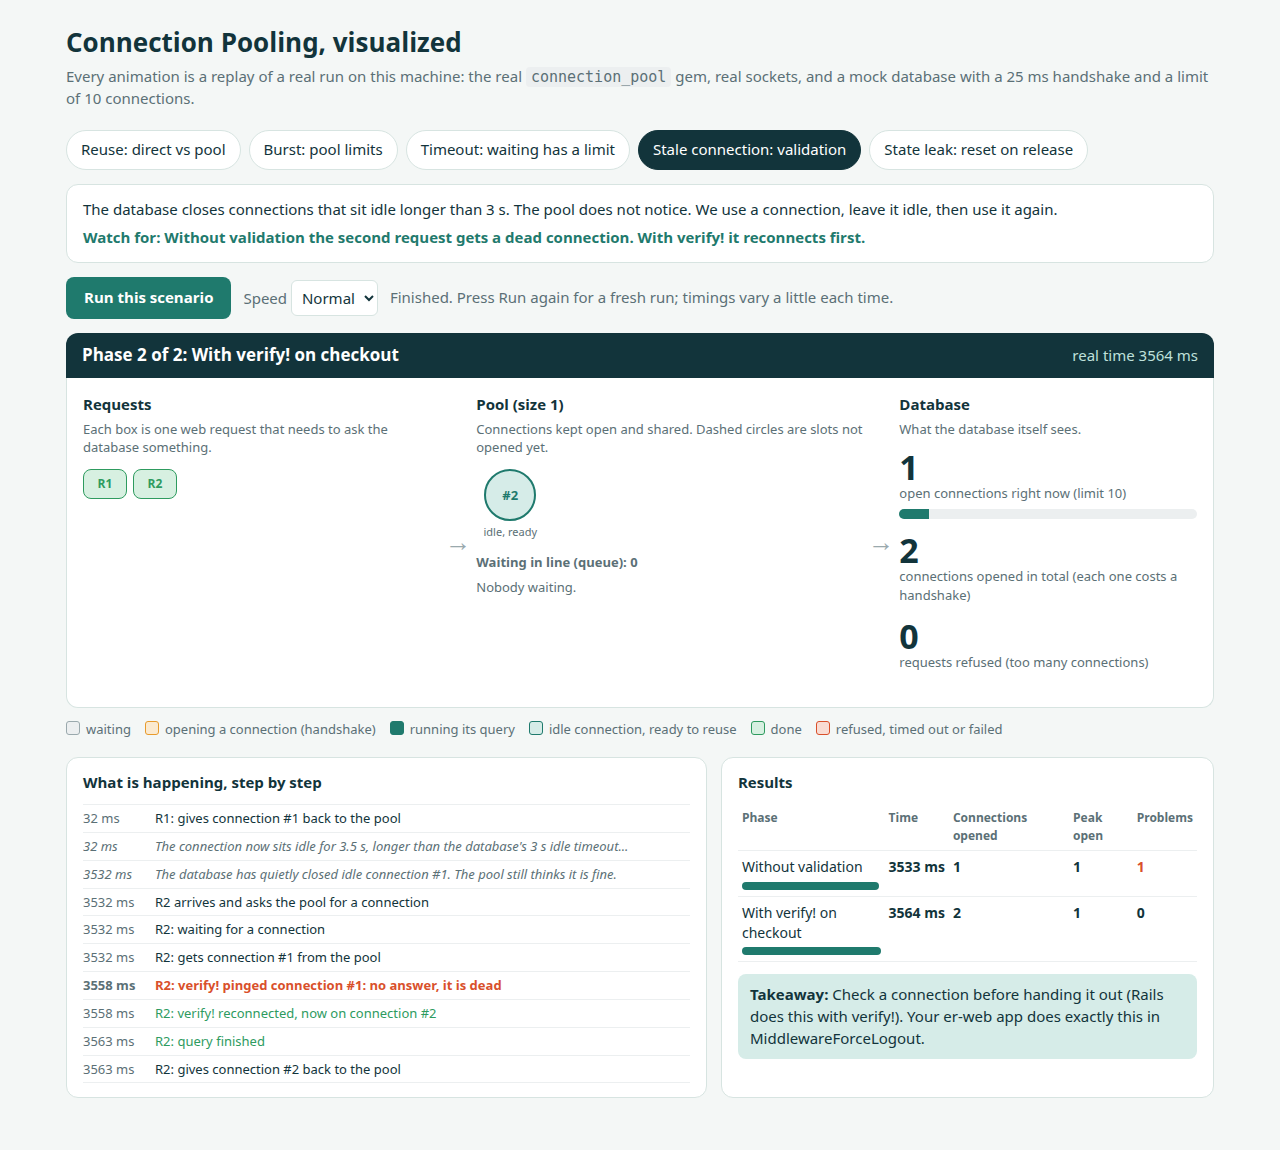
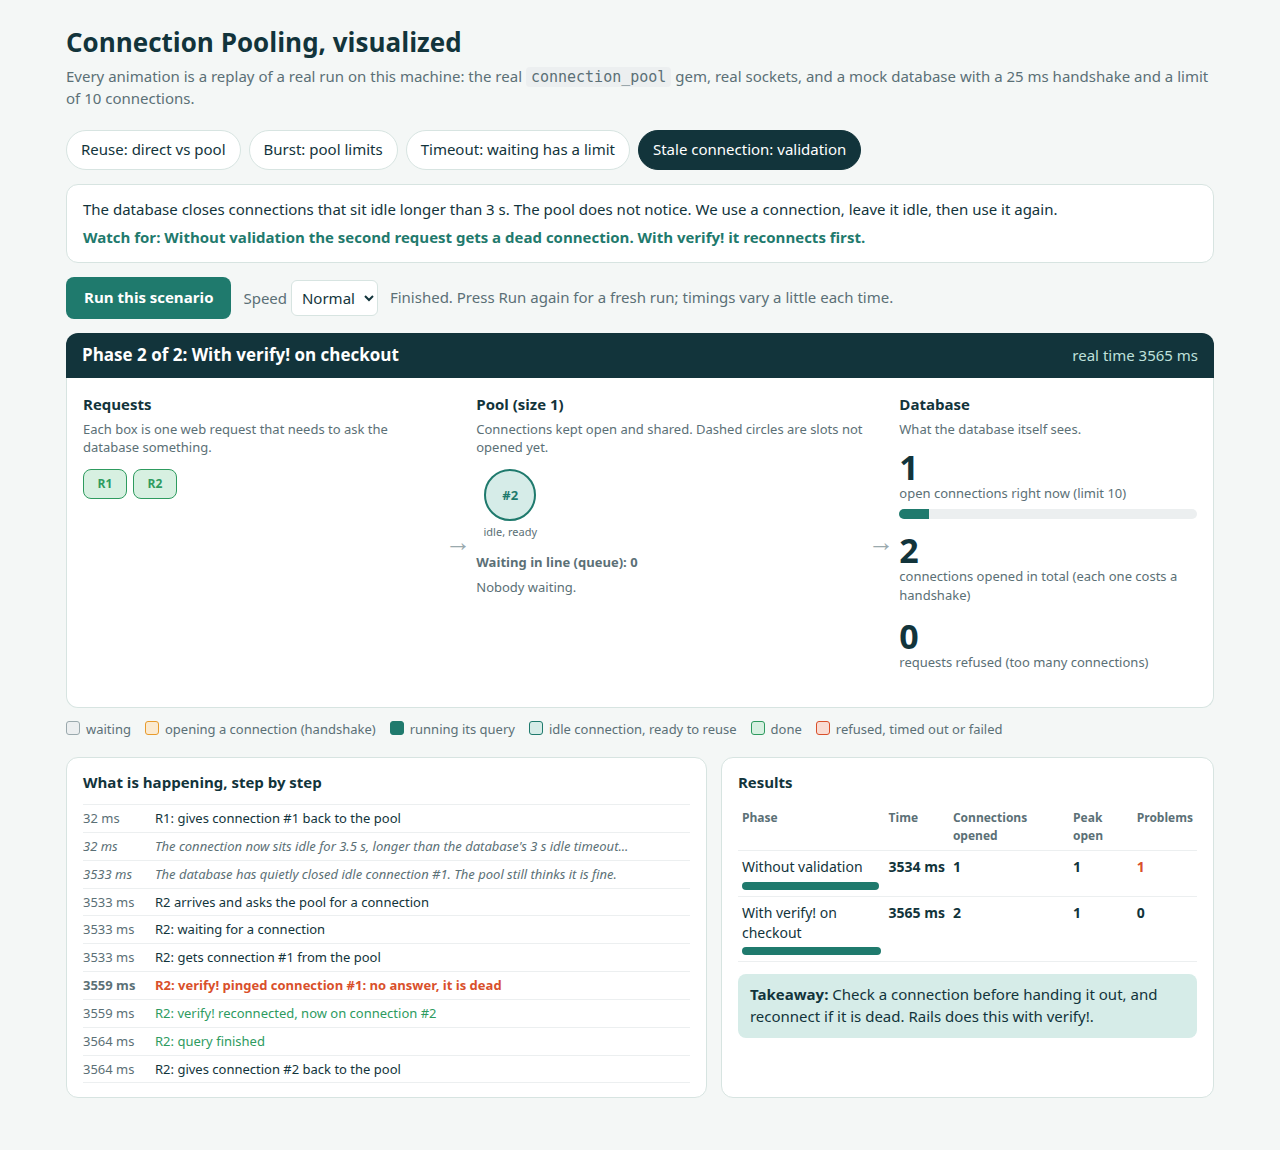
updated

Changed region(s): [[0.5625, 0.8522, 0.9375, 0.9435], [0.6875, 0.1217, 0.8438, 0.1522]]

diff --git a/public/index.html b/public/index.html
@@ -283,7 +283,7 @@ function freshState(phase, max) {
   return { mode: phase.mode, size: phase.pool_size || 0, max, reqs: new Map(), conns: [], queue: [], open: 0, opened: 0, refused: 0 };
 }
 
-const LOG_CLASS = { refused: "bad", timeout: "bad", failed: "bad", crash: "bad", stale: "bad", done: "good", reconnected: "good", note: "note", server_closed: "note" };
+const LOG_CLASS = { refused: "bad", timeout: "bad", failed: "bad", stale: "bad", done: "good", reconnected: "good", note: "note", server_closed: "note" };
 
 function apply(s, e) {
   const conn = (id) => s.conns.find((c) => c.id === id);
@@ -324,7 +324,7 @@ function apply(s, e) {
       s.open++; s.opened++;
       break;
     }
-    case "failed": case "crash": s.reqs.set(e.req, "failed"); break;
+    case "failed": s.reqs.set(e.req, "failed"); break;
   }
   logLine(LOG_CLASS[e.ev] || "", e.msg, e.t);
 }

diff --git a/ui.rb b/ui.rb
@@ -223,53 +223,8 @@ SCENARIOS = {
       end
       [stale.call("Without validation", false), stale.call("With verify! on checkout", true)]
     end,
-    takeaway: "Check a connection before handing it out (Rails does this with verify!). Your er-web " \
-              "app does exactly this in MiddlewareForceLogout."
-  },
-  "leak" => {
-    title: "State leak: reset on release",
-    what: "A pool of 1, so two requests share the same connection. R1 starts a transaction, " \
-          "sets tenant_id = 42, then crashes before COMMIT or ROLLBACK. R2 comes next.",
-    watch: "Without a reset, R2 inherits R1's open transaction and tenant. With a reset, R2 starts clean.",
-    run: lambda do
-      leak = lambda do |title, reset|
-        phase(title, mode: "pool", pool_size: 1, timeout: 1) do |rec|
-          pool = new_pool(rec, size: 1, timeout: 1)
-          Thread.current[:req] = "R1"
-          rec.ev("arrive", "R1 arrives and asks the pool for a connection", req: "R1")
-          rec.ev("checkout", "R1: waiting for a connection", req: "R1")
-          pool.with do |conn|
-            rec.ev("acquire", "R1: uses connection ##{conn.id}", req: "R1", conn: conn.id)
-            conn.call("BEGIN")
-            conn.call("SET tenant_id 42")
-            rec.ev("note", "R1: BEGIN transaction, SET tenant_id = 42")
-            rec.ev("crash", "R1: crashes before COMMIT or ROLLBACK", req: "R1")
-            if reset
-              conn.call("RESET")
-              rec.ev("note", "Pool resets connection ##{conn.id} on release: ROLLBACK and clear session")
-            end
-            rec.ev("release", "R1: connection ##{conn.id} goes back to the pool", req: "R1", conn: conn.id)
-          end
-          Thread.current[:req] = "R2"
-          rec.ev("arrive", "R2 arrives and asks the pool for a connection", req: "R2")
-          rec.ev("checkout", "R2: waiting for a connection", req: "R2")
-          pool.with do |conn|
-            rec.ev("acquire", "R2: reuses connection ##{conn.id}", req: "R2", conn: conn.id, reused: true)
-            tx = conn.call("STATUS").delete_prefix("TX ")
-            tenant = conn.call("GET tenant_id").delete_prefix("VALUE ")
-            leaked = tx == "open" || tenant != "NULL"
-            rec.ev(leaked ? "failed" : "done",
-                   "R2 sees: transaction #{tx}, tenant_id = #{tenant}#{leaked ? '  <- R1\'s leftovers!' : '  (clean)'}",
-                   req: "R2", conn: conn.id)
-            rec.ev("release", "R2: gives connection ##{conn.id} back to the pool", req: "R2", conn: conn.id)
-          end
-          drain(pool)
-        end
-      end
-      [leak.call("Naive pool", false), leak.call("Pool with reset on release", true)]
-    end,
-    takeaway: "A pool must hand out clean connections. Rails rolls back open transactions when a " \
-              "connection is returned."
+    takeaway: "Check a connection before handing it out, and reconnect if it is dead. " \
+              "Rails does this with verify!."
   }
 }.freeze
 

diff --git a/mock_db_server.rb b/mock_db_server.rb
@@ -4,7 +4,7 @@
 #
 # Why a mock instead of MySQL or PostgreSQL: the demo must be reproducible by any
 # reviewer with nothing but Ruby installed, no credentials and no database setup.
-# The server models the four properties of a real database that make pooling matter:
+# The server models the three properties of a real database that make pooling matter:
 #
 #   1. Opening a connection is expensive (TCP + TLS + authentication), simulated
 #      with a configurable handshake delay.
@@ -12,18 +12,11 @@
 #      like MySQL's "Too many connections" error.
 #   3. Idle connections are closed after wait_timeout seconds, like MySQL's
 #      wait_timeout, which is what produces stale connections in a pool.
-#   4. Every connection has session state (variables, open transaction) that
-#      survives for the lifetime of that connection.
 #
 # Protocol (one line per request, one line per reply):
 #   HELLO <user> <password>  -> OK <connection_id> | ERR too_many_connections
 #   QUERY <ms>               -> ROW <connection_id>   (sleeps ms to simulate work)
 #   PING                     -> PONG
-#   SET <key> <value>        -> OK
-#   GET <key>                -> VALUE <value> | VALUE NULL
-#   BEGIN | COMMIT | ROLLBACK -> OK
-#   STATUS                   -> TX open | TX none
-#   RESET                    -> OK   (rolls back and clears session state)
 #   QUIT                     -> BYE
 # Admin lines sent as the first line instead of HELLO (never counted as clients):
 #   STATS                    -> accepted=N active=N peak=N refused=N
@@ -111,9 +104,6 @@ class MockDbServer
   end
 
   def session(socket, id)
-    vars = {}
-    in_tx = false
-
     loop do
       # Server side idle timeout. A pooled connection that sits unused longer than
       # this is silently closed, and the client only finds out on its next write.
@@ -127,12 +117,6 @@ class MockDbServer
         case cmd
         when "QUERY" then sleep(args[0].to_i / 1000.0); "ROW #{id}"
         when "PING" then "PONG"
-        when "SET" then vars[args[0]] = args[1]; "OK"
-        when "GET" then "VALUE #{vars.fetch(args[0], 'NULL')}"
-        when "BEGIN" then in_tx = true; "OK"
-        when "COMMIT", "ROLLBACK" then in_tx = false; "OK"
-        when "STATUS" then in_tx ? "TX open" : "TX none"
-        when "RESET" then in_tx = false; vars.clear; "OK"
         when "QUIT" then socket.write("BYE\n"); return
         else "ERR unknown_command"
         end

diff --git a/demo.rb b/demo.rb
@@ -6,7 +6,7 @@
 #   bundle exec ruby demo.rb
 #
 # Starts mock_db_server.rb as a separate process on a random local port, then runs
-# five scenarios against it. See README.md for what each scenario proves.
+# four scenarios against it. See README.md for what each scenario proves.
 
 require "bundler/setup"
 require "connection_pool"
@@ -178,50 +178,6 @@ pool.reap(idle_seconds: 0.1, &:close)
 puts "idle reaping: idle=#{pool.idle} after reap(idle_seconds: 0.1), the next checkout opens a fresh connection"
 puts "=> validate on checkout (or reap idle connections before the server's timeout) " \
      "so requests never receive a dead socket"
-drain(pool)
-
-# --------------------------------------------------------------------------
-header "5. Transaction and session state leaking between borrowers (pool size 1)"
-# --------------------------------------------------------------------------
-def request_a(pool)
-  pool.with do |conn|
-    conn.call("BEGIN")
-    conn.call("SET tenant_id 42")
-    raise "boom: request A crashed mid transaction"
-  end
-rescue RuntimeError => e
-  puts "request A: #{e.message}"
-end
-
-def request_b(pool)
-  pool.with do |conn|
-    puts "request B: connection #{conn.id}  #{conn.call('STATUS')}  tenant_id=#{conn.call('GET tenant_id').delete_prefix('VALUE ')}"
-  end
-end
-
-pool = new_pool(size: 1, timeout: 1)
-puts "naive pool:"
-request_a(pool)
-request_b(pool)
-drain(pool)
-
-# Fix: always reset the connection on release, whatever happened in the block.
-module CleanCheckin
-  def with(**)
-    super do |conn|
-      yield conn
-    ensure
-      conn.call("RESET") # rollback open transaction + clear session variables
-    end
-  end
-end
-
-pool = new_pool(size: 1, timeout: 1).extend(CleanCheckin)
-puts "pool with reset on release:"
-request_a(pool)
-request_b(pool)
-puts "=> a pool must hand out connections in a known clean state: roll back open " \
-     "transactions and reset session state on release"
 drain(pool)
 
 puts

diff --git a/README.md b/README.md
@@ -1,21 +1,21 @@
 # Connection Pooling Demo
 
-A small Ruby application that compares repeated direct connections with a configured connection pool, and shows pool limits, reuse, timeouts, stale connection handling and state leakage between borrowers.
+A small Ruby application that compares repeated direct connections with a configured connection pool, and shows pool limits, reuse, timeouts and stale connection handling.
 
 ## What is in this folder
 
 | File | Purpose |
 |---|---|
-| `mock_db_server.rb` | A tiny TCP "database" server, started automatically by the demo as a separate process. It simulates an expensive connection handshake, a hard `max_connections` limit, an idle `wait_timeout`, and per connection session state. |
+| `mock_db_server.rb` | A tiny TCP "database" server, started automatically by the demo as a separate process. It simulates an expensive connection handshake, a hard `max_connections` limit and an idle `wait_timeout`. |
 | `db_client.rb` | A minimal driver for that server, shaped like `mysql2` or `pg`: constructing it opens and authenticates a socket. It exposes `ping`, `alive?` and `verify!` (ping and reconnect, like ActiveRecord). |
-| `demo.rb` | Runs the five scenarios and prints the results. |
+| `demo.rb` | Runs the four scenarios and prints the results. |
 | `ui.rb`, `public/index.html` | Visual version: a local web page that runs each scenario for real and replays it as an animation. |
 | `Gemfile`, `Gemfile.lock` | One dependency: [`connection_pool`](https://github.com/mperham/connection_pool), the pool used by Sidekiq, Dalli and the redis gem. |
 | `evidence/demo-output.txt` | Captured output of a full run. |
 | `evidence/environment.txt` | Ruby, OS and gem versions used for the captured run. |
 | `evidence/ui-*.png` | Screenshots of the visual version, one per scenario, at the end of a run. |
 
-Why a mock server instead of MySQL or PostgreSQL: anyone can reproduce the run with only Ruby installed, without credentials, Docker or a database. The mock models the exact properties that make pooling matter (expensive connect, server connection limit, idle timeout, session state). The pool itself is the real, production grade `connection_pool` gem.
+Why a mock server instead of MySQL or PostgreSQL: anyone can reproduce the run with only Ruby installed, without credentials, Docker or a database. The mock models the exact properties that make pooling matter (expensive connect, server connection limit, idle timeout). The pool itself is the real, production grade `connection_pool` gem.
 
 ## Setup
 
@@ -91,12 +91,6 @@ Warm a pool of size 1, then sleep past the server's `wait_timeout` so the server
 
 Expected: the next query without validation fails with `DbClient::ConnectionLost: server has gone away`. With `verify!` on checkout, the client detects the dead socket via ping, reconnects (`reconnects=1`, new connection id) and the query succeeds. `pool.reap(idle_seconds:)` then closes idle connections proactively (`idle=1` becomes `idle=0`).
 
-### 5. Transaction and session state leakage
-
-Pool size 1. Request A begins a transaction, sets `tenant_id 42`, then crashes without rolling back. Request B borrows the same connection.
-
-Expected: with a naive pool, request B sees `TX open` and `tenant_id=42`, which is someone else's state. With a reset on release (`RESET` in an `ensure` around every checkout), request B sees `TX none` and `tenant_id=NULL`.
-
 ## Mapping to real stacks
 
 | Demo concept | Rails / ActiveRecord | Other stacks |
@@ -105,4 +99,3 @@ Expected: with a naive pool, request B sees `TX open` and `tenant_id=42`, which 
 | `timeout:` | `checkout_timeout` (raises `ActiveRecord::ConnectionTimeoutError`) | HikariCP `connectionTimeout` |
 | `verify!` | `ActiveRecord::ConnectionAdapters::AbstractAdapter#verify!` | HikariCP `keepaliveTime`, pgbouncer `server_check_query` |
 | `reap(idle_seconds:)` | `idle_timeout` and the pool reaper (`reaping_frequency`) | HikariCP `idleTimeout`, `maxLifetime` |
-| Reset on release | `reset!` and transaction rollback on checkin | pgbouncer `server_reset_query = DISCARD ALL` |
